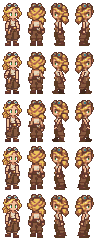
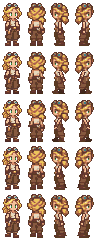
Freya's front walk: a simple elbow bend, bracers back
The forward arm bends at the elbow (hand rises in front of the belt), the
back arm stays straight with its hand a pixel higher and out; passing and
standing hang at rest. Forearms carry her leather bracers, as from behind.

Claude-Session: https://claude.ai/code/session_013NFuzH4fkTFkF6ZrQzp2x8

diff --git a/tools/front_walk_arms.py b/tools/front_walk_arms.py
@@ -20,13 +20,17 @@ FW, FH = 24, 48
 # per resident: the hem row of the standing frame (legs start below it), and the hand targets
 # (dx, dy from each shoulder) per row: L and R as seen by the viewer
 SWING = {
-    "freya": dict(hem=40, rows={
-        0: dict(L=(-1, 7), R=(1, 7)),
-        1: dict(L=(-2, 5), R=(0, 9)),       # right leg trails: right hand forward, left back
-        2: dict(L=(0, 9), R=(2, 5)),        # left leg trails
-        3: dict(L=(-1, 6), R=(1, 8)),       # on their way back through
-        4: dict(L=(-1, 8), R=(1, 6)),
-    }),
+    # a straight arm hangs from the shoulder past the elbow (2 left/right of it, 4 down); the
+    # forward arm bends at the elbow, its forearm coming toward us so the hand rises in front of
+    # the belt; the back arm stays straight, its hand a pixel higher and out behind the hip
+    "freya": dict(hem=40, elbow=(-1, 4), rows={
+        0: dict(L="rest", R="rest"),
+        1: dict(L="back", R="forward"),     # right leg trails: right hand forward, left back
+        2: dict(L="forward", R="back"),     # left leg trails
+        3: dict(L="rest", R="rest"),
+        4: dict(L="rest", R="rest"),
+    }, hands={"rest": (-1, 7), "forward": (1, 5), "back": (-2, 6)},
+        bracer=("#86593f", "#6b3a2c")),     # her leather bracers cover the forearms
 }
 BOB = {0: 0, 1: 1, 2: 1, 3: 0, 4: 0}
 
@@ -51,11 +55,29 @@ def build(art, name):
         cell[:hem + 1 + bob] = 0
         P.over(cell, upper)
         layer = np.zeros_like(cell)
-        for side, elbow in (("L", -1), ("R", 1)):
+        for side, sign in (("L", 1), ("R", -1)):
             sx, sy = rig["d"][side]
-            dx, dy = hands[side]
-            P.draw_arm(layer, (sx, sy + bob), (sx + dx, sy + bob + dy), elbow, pal,
-                       width=rig.get("arm_w", 2), thick=True)
+            dx, dy = cfg["hands"][hands[side]]
+            ex, ey = cfg["elbow"]
+            # the viewer's right arm is the left one mirrored (the arm is drawn from its left
+            # edge, so the mirror is a pixel further in)
+            hx, elx = (sx + dx, sx + ex) if sign > 0 else (sx - dx, sx - ex)
+            one = np.zeros_like(layer)
+            P.draw_arm(one, (sx, sy + bob), (hx, sy + bob + dy), 0, pal,
+                       width=rig.get("arm_w", 2), elbow=(elx, sy + bob + ey), thick=True)
+            if cfg.get("bracer"):
+                lit, dark = (P.hexc(c) for c in cfg["bracer"])
+                line = pal["line"]
+                w = rig.get("arm_w", 2)
+                fore = P.line_pts((elx, sy + bob + ey), (hx, sy + bob + dy - 1))
+                top = min(y for _, y in fore)
+                for (x, y) in fore:
+                    for j in range(w):
+                        for i in range(w):
+                            yy, xx = y + j, x + i
+                            if 0 <= yy < FH and 0 <= xx < FW and one[yy, xx, 3] and (one[yy, xx] != line).any():
+                                one[yy, xx] = lit if yy == top else dark
+            P.over(layer, one)
         P.over(cell, layer)
         walk[row * FH:(row + 1) * FH, 0:FW] = cell
     Image.fromarray(walk).save(path)
